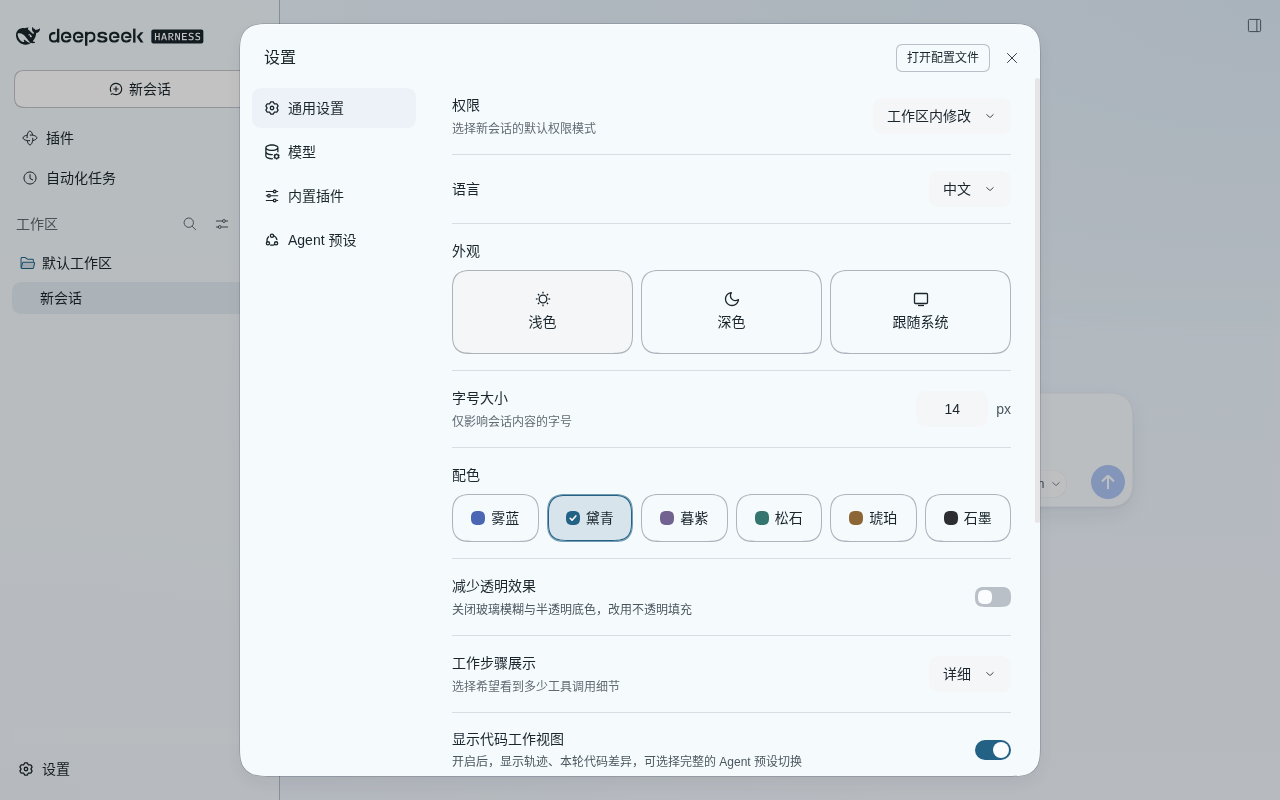
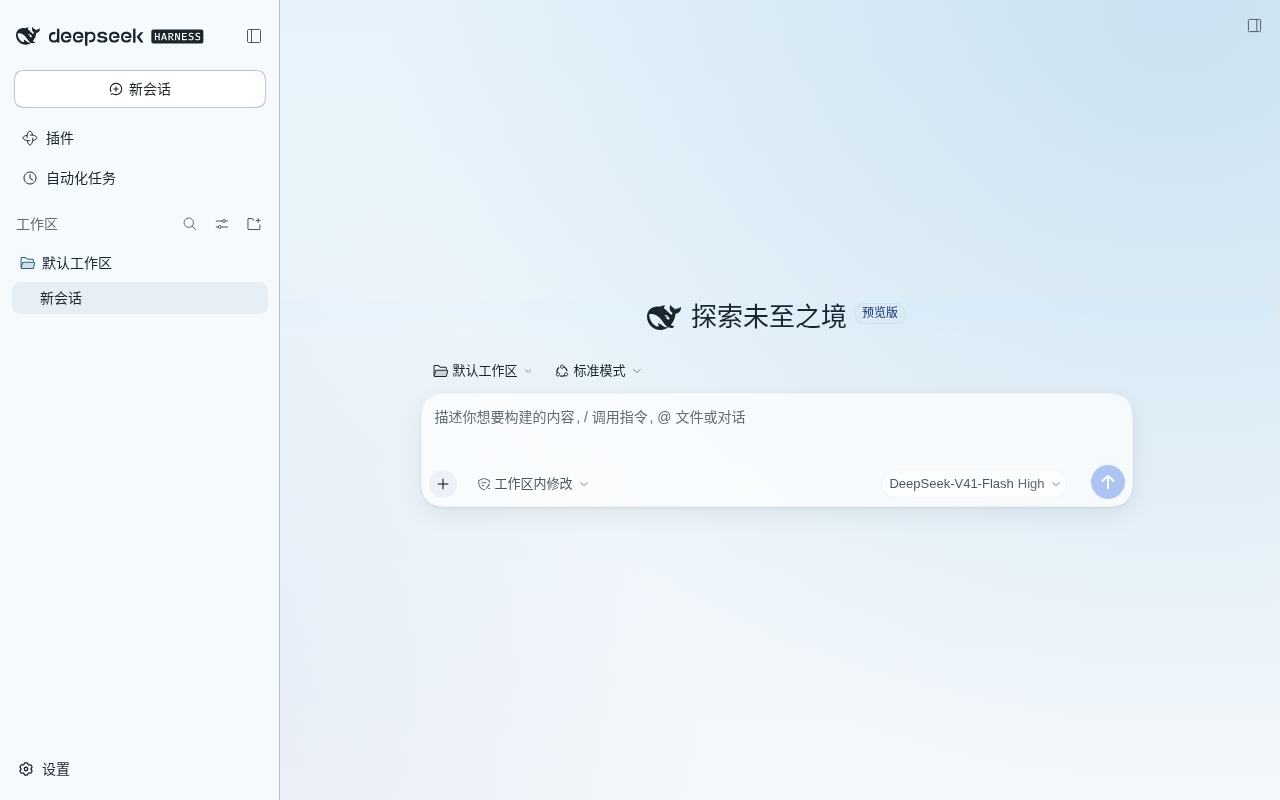
docs: 六套配色预览按新材质重拍，并修好首启弹窗漏点
重拍：页面 wash 归零后光晕才露出来，旧图已经不代表实际效果。
同一批图里六套配色的差异从 ΔE00 15.75 升到 26.4（右上角），
页面中部从 3 升到 9.2 —— 这正是 T5.5 要修的东西。

同时修掉预览脚本的一个真问题：全新 profile 会在加载后几秒才弹出
「添加一个 API Key」「预览版说明」这类遮挡层，而脚本只在启动时
扫一遍 [role=dialog]，于是头两张图被弹窗和遮罩盖住。现在每次
按快门之前都扫一遍，选择器放宽到 [role=dialog] / [aria-modal] /
[data-dsh-modal]，中文按钮改成非锚定匹配（锚定后匹配不到
「稍后配置」这种带后缀的按钮）。

Verified: pnpm preview:accents —— 9 条断言全过，六张 1280x800，无弹窗
Verified: 六张图取自临时 DSH_HOME 的空状态，不含任何会话内容

diff --git a/README.md b/README.md
@@ -79,7 +79,7 @@ window.dispatchEvent(new CustomEvent('dsh-go-theme:reduce-material', { detail: t
 
 ## 六套配色
 
-同一页面的六种强调色（点开看大图）。左侧侧栏、按钮、开关与选中态都跟着当前配色走，背景渐变与玻璃材质不变。
+同一页面的六种强调色（点开看大图）。右上角光晕、左侧栏、发送按钮与选中态都跟着配色走，背景渐变与玻璃材质不变——把六张并排看，右上角那一块的色相差异最大（雾蓝偏冷、琥珀偏暖、石墨几乎中性）。
 
 <table>
   <tr>
@@ -94,13 +94,14 @@ window.dispatchEvent(new CustomEvent('dsh-go-theme:reduce-material', { detail: t
   </tr>
 </table>
 
-截图来自一个全新 profile 的空状态，设置面板停在「通用」——所以每张图里都能看到「配色」行当前选中的色块，以及同一页的「减少透明效果」开关。图由脚本生成，不是手工截的：
+拍的是**主页面**（不是设置面板）在全新 profile 下的空状态：没有会话内容，所以不会把任何人的对话带进仓库。图由脚本生成，不是手工截的：
 
 ```bash
-pnpm preview:accents --dialog --language zh     # 需要先 pnpm build，并有一个装好本插件的 profile
+pnpm preview:accents --language zh   # 需要先 pnpm build，并有一个装好本插件的 profile
+# 设置面板那张单图：加 --dialog
 ```
 
-脚本会自己起实例、切六次配色、各拍一张（用法见 [tools/README](tools/README.md) §11）。
+脚本会自己起实例、关掉首启弹窗、切六次配色、各拍一张（用法见 [tools/README](tools/README.md) §11）。
 
 ## 性能
 
